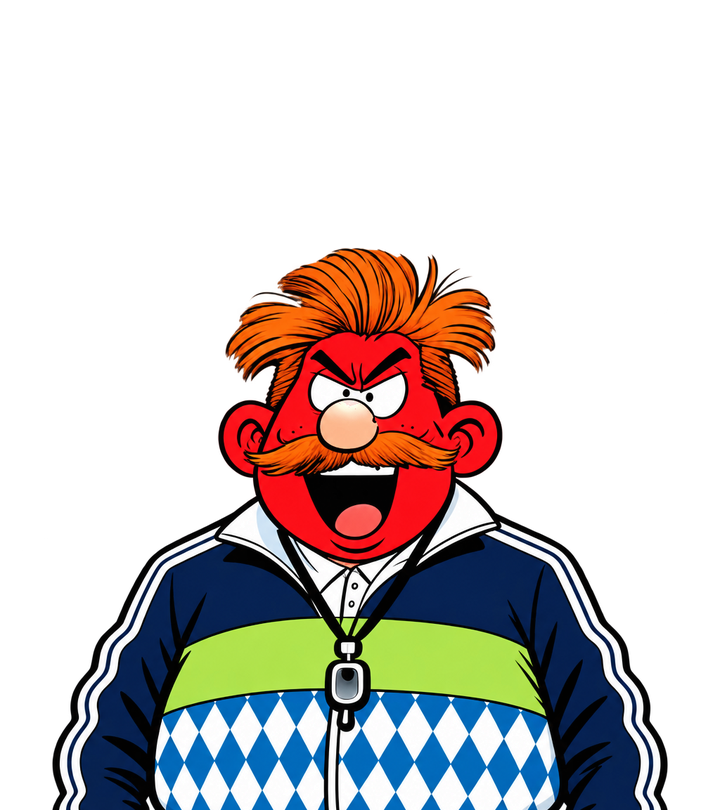
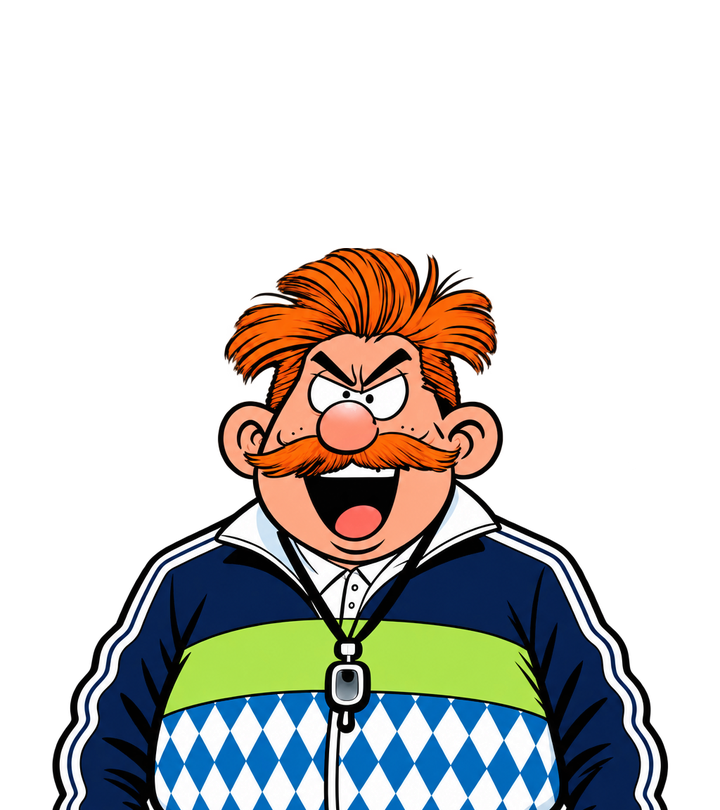
Story: the Head Coach's mad faces with normal skin
Claude-Session: https://claude.ai/code/session_01GrbNTwVienMcpmsk1Pgq12

diff --git a/guides/DESIGNER_MANUAL.md b/guides/DESIGNER_MANUAL.md
@@ -4483,7 +4483,7 @@ and then its `Door Sound` (`door_open`, a wooden door creaking open)
 name off the bottom middle of its picture, e.g. the Club House's, so the
 Trophy Room hut in front of it keeps its own name.
 
-**The village buttons (23 Oct 2026)**: the village picture (assets/base/village.png) now has the drawn Pub right of the brewery. Like the brewery church, it is a button: Buildings.csv `Village Art` = `pub_inn` (assets/base/map/pub_inn.png = only its pixels, pub_inn_hover.png = lit up with a gold edge). The pitch is a button too: the new row `play_field` ("Play a match", Action `play:friendly`, Village Art `village_field`). Clicking the grass does what the Play a match flag did (the Match Maker), and while that row is on the base the flag is not on the top row. The pieces are made by /mnt/project-files/art_tool/base/village_buttons/make_pieces.py. The Dorms is drawn in too (the white block far left, behind the tree, chapel and houses): Village Art `dorms_block`, lit up on hover the same way. The Brewer visitor is off the base for now: his Visitors.csv `Requires` is `flag:brewer_on_base`; put `unlocked:Brewery` back to bring him back. Later the same day the whole picture was redrawn (r172): the new wooden Club House chalet in the middle (Village Art `clubhouse_chalet`), the low houses and little chapel under the Dorms and Club House all together as the Training Ground (`training_houses`), and the wooden Trophy hut with the gold cup in the field corner between the stone wall and the fence (`trophy_hut`). Every building on the base now lights up yellow on hover. The Dorms and Club House name tags are lifted onto their own building with `Name Offset` so the houses in front do not hide them. Pieces: /mnt/project-files/art_tool/base/village_buttons/make_masks_r172.py, then make_pieces_r172.py. The base's name now hangs on the tavern sign like the other screens (data/MenuHeader.csv; Language.csv `the_base`, `tutorial_base`). THE TUTORIAL NOW STARTS ON THE BASE (23 Oct 2026, Anthony): Tuning.csv `tutorial_first_scene` = `tut-base-welcome`, one Dialogue.csv line over the village picture (StoryArt.csv background `village`): the Head Coach says "Ah Coach! You are here, glad you could make it", and its Next `prologue/open` carries on into Pub Dialogue 1 and the tutorial match as before. Put `prologue` back in `tutorial_first_scene` to open in the pub again. THE NEW INTRODUCTION (23 Oct, Anthony): the welcome is now four lines ("Welcome to Sturmball!" ... "let us get a drink at the Pub"), and it ends ON THE BASE itself, in the tutorial's own save: everything is greyed out except the Pub, which glows (Guide.csv row `tut_intro_pub`, Highlight `Pub`, Only `true`; the tutorial save is given the Pub by Tuning.csv `tutorial_start_effects`). Press the Pub and Tuning.csv `tutorial_pub_scene` plays: Dialogue.csv `tut-pub-arrive` ("Ah, nothing beats a nice cold beer!", "Ah Koch! My prodigy"), whose last line's Next `prologue/put_down` carries on into the pub scene as before, then the tutorial match. `tutorial_pub_building` names which Buildings.csv row is the Pub. Blank `tutorial_pub_scene` = no base walk: the welcome goes straight on to the match. A Guide.csv row with Only `true` now works on the base too: every other button is greyed and cannot be pressed (the End tutorial button stays), and a drawn building glows instead of getting a ring. After "Ah Koch! My prodigy" Koch slides in from the right and the Head Coach moves to the left, facing the middle (Anthony, 23 Oct): Dialogue.csv has a new column, `Joins`: who steps on stage as a line shows WITHOUT speaking, written Portrait:Side:Mood (here `koch:right:drunk` on prologue/put_down), several separated by ;. Check: tools/tutorial_check.gd. Later the same day (Anthony): every sign's dark edge is half as thick (MenuHeader.csv `backing` Size 30, pictures remade by art_tool/menu/header_aura.py), and THE DRAWN HEAD COACH is in: the story faces in assets/story/portraits/coach_*.png are now his drawn happy, sad, drunk and mad fronts and his happy side (cut out by art_tool/characters/coach/game/cut_portraits.py). His side faces (happy, sad, drunk, mad) are drawn half-turned, semi front/side like the old pixel ones (r173-r174, Anthony's pick). The pub in the story is empty now (Anthony, 23 Oct): StoryArt.csv no longer stacks the regulars layer (assets/story/backgrounds/bar_regulars.png, still there) on the bar room; add the row `bar,background,,,,res://assets/story/backgrounds/bar_regulars.png` under the bar room to bring them back. The room itself is redrawn in our comic style (assets/story/backgrounds/bar_room_drawn.png, r175), with three beer garden table sets in three different woods in the middle of the floor (r176); the old pixel room is still bar_room.png. His cut-outs have the white between his hair strands and the pale rim round his outline taken out, and each picture is padded at the top to the shape of a person's spot on the story screen, so he stands on its bottom edge just behind the text box instead of floating above it (same script). All eight faces were then redrawn a little zoomed out (r177-r178, Anthony: "Redraw all 7"), so his shoulders, arms and hands are inside the picture and his sides no longer end in a straight cut; each is cut off through the blue-white diamonds, where the text box hides the edge. The faces before that are kept in art_tool/characters/coach/before_r178/. THE DRAWN KOCH is in too (23 Oct, Anthony: "Replace the old koch with the new one please", then "as clean and same size as the head coach"): all eight of his faces (happy, sad, drunk, mad, each front and half-turned side) are redrawn clean like the Head Coach (r179-r180). Both men's faces are now cut and sized by ONE script, art_tool/characters/story_faces.py: each picture is cut 800 px below the top of his head and shrunk to the same width, so both men stand at the same size in every mood. Koch's plain face is his happy one. ONE SET OF COLOURS (23 Oct, Anthony: the colours must not change from scene to scene): the same script shifts every face's skin, hair and clothes to that man's happy front colours, and the person listening in a conversation is no longer greyed out (Tuning.csv `story_listener_dim` 1; 0.55 brings back the grey). His silhouette and Bergmännlein faces (the transformation) are unchanged. Check: tools/village_buttons_shot.gd.
+**The village buttons (23 Oct 2026)**: the village picture (assets/base/village.png) now has the drawn Pub right of the brewery. Like the brewery church, it is a button: Buildings.csv `Village Art` = `pub_inn` (assets/base/map/pub_inn.png = only its pixels, pub_inn_hover.png = lit up with a gold edge). The pitch is a button too: the new row `play_field` ("Play a match", Action `play:friendly`, Village Art `village_field`). Clicking the grass does what the Play a match flag did (the Match Maker), and while that row is on the base the flag is not on the top row. The pieces are made by /mnt/project-files/art_tool/base/village_buttons/make_pieces.py. The Dorms is drawn in too (the white block far left, behind the tree, chapel and houses): Village Art `dorms_block`, lit up on hover the same way. The Brewer visitor is off the base for now: his Visitors.csv `Requires` is `flag:brewer_on_base`; put `unlocked:Brewery` back to bring him back. Later the same day the whole picture was redrawn (r172): the new wooden Club House chalet in the middle (Village Art `clubhouse_chalet`), the low houses and little chapel under the Dorms and Club House all together as the Training Ground (`training_houses`), and the wooden Trophy hut with the gold cup in the field corner between the stone wall and the fence (`trophy_hut`). Every building on the base now lights up yellow on hover. The Dorms and Club House name tags are lifted onto their own building with `Name Offset` so the houses in front do not hide them. Pieces: /mnt/project-files/art_tool/base/village_buttons/make_masks_r172.py, then make_pieces_r172.py. The base's name now hangs on the tavern sign like the other screens (data/MenuHeader.csv; Language.csv `the_base`, `tutorial_base`). THE TUTORIAL NOW STARTS ON THE BASE (23 Oct 2026, Anthony): Tuning.csv `tutorial_first_scene` = `tut-base-welcome`, one Dialogue.csv line over the village picture (StoryArt.csv background `village`): the Head Coach says "Ah Coach! You are here, glad you could make it", and its Next `prologue/open` carries on into Pub Dialogue 1 and the tutorial match as before. Put `prologue` back in `tutorial_first_scene` to open in the pub again. THE NEW INTRODUCTION (23 Oct, Anthony): the welcome is now four lines ("Welcome to Sturmball!" ... "let us get a drink at the Pub"), and it ends ON THE BASE itself, in the tutorial's own save: everything is greyed out except the Pub, which glows (Guide.csv row `tut_intro_pub`, Highlight `Pub`, Only `true`; the tutorial save is given the Pub by Tuning.csv `tutorial_start_effects`). Press the Pub and Tuning.csv `tutorial_pub_scene` plays: Dialogue.csv `tut-pub-arrive` ("Ah, nothing beats a nice cold beer!", "Ah Koch! My prodigy"), whose last line's Next `prologue/put_down` carries on into the pub scene as before, then the tutorial match. `tutorial_pub_building` names which Buildings.csv row is the Pub. Blank `tutorial_pub_scene` = no base walk: the welcome goes straight on to the match. A Guide.csv row with Only `true` now works on the base too: every other button is greyed and cannot be pressed (the End tutorial button stays), and a drawn building glows instead of getting a ring. After "Ah Koch! My prodigy" Koch slides in from the right and the Head Coach moves to the left, facing the middle (Anthony, 23 Oct): Dialogue.csv has a new column, `Joins`: who steps on stage as a line shows WITHOUT speaking, written Portrait:Side:Mood (here `koch:right:drunk` on prologue/put_down), several separated by ;. Check: tools/tutorial_check.gd. Later the same day (Anthony): every sign's dark edge is half as thick (MenuHeader.csv `backing` Size 30, pictures remade by art_tool/menu/header_aura.py), and THE DRAWN HEAD COACH is in: the story faces in assets/story/portraits/coach_*.png are now his drawn happy, sad, drunk and mad fronts and his happy side (cut out by art_tool/characters/coach/game/cut_portraits.py). His side faces (happy, sad, drunk, mad) are drawn half-turned, semi front/side like the old pixel ones (r173-r174, Anthony's pick). The pub in the story is empty now (Anthony, 23 Oct): StoryArt.csv no longer stacks the regulars layer (assets/story/backgrounds/bar_regulars.png, still there) on the bar room; add the row `bar,background,,,,res://assets/story/backgrounds/bar_regulars.png` under the bar room to bring them back. The room itself is redrawn in our comic style (assets/story/backgrounds/bar_room_drawn.png, r175), with three beer garden table sets in three different woods in the middle of the floor (r176); the old pixel room is still bar_room.png. His cut-outs have the white between his hair strands and the pale rim round his outline taken out, and each picture is padded at the top to the shape of a person's spot on the story screen, so he stands on its bottom edge just behind the text box instead of floating above it (same script). All eight faces were then redrawn a little zoomed out (r177-r178, Anthony: "Redraw all 7"), so his shoulders, arms and hands are inside the picture and his sides no longer end in a straight cut; each is cut off through the blue-white diamonds, where the text box hides the edge. The faces before that are kept in art_tool/characters/coach/before_r178/. THE DRAWN KOCH is in too (23 Oct, Anthony: "Replace the old koch with the new one please", then "as clean and same size as the head coach"): all eight of his faces (happy, sad, drunk, mad, each front and half-turned side) are redrawn clean like the Head Coach (r179-r180). Both men's faces are now cut and sized by ONE script, art_tool/characters/story_faces.py: each picture is cut 800 px below the top of his head and shrunk to the same width, so both men stand at the same size in every mood. Koch's plain face is his happy one. ONE SET OF COLOURS (23 Oct, Anthony: the colours must not change from scene to scene): the same script shifts every face's skin, hair and clothes to that man's happy front colours, and the person listening in a conversation is no longer greyed out (Tuning.csv `story_listener_dim` 1; 0.55 brings back the grey). His mad faces now have normal skin instead of a red face (r181, Anthony's pick). His silhouette and Bergmännlein faces (the transformation) are unchanged. Check: tools/village_buttons_shot.gd.
 
 **On Base (Buildings.csv, 23 Oct 2026)**: write `no` and that building is not drawn on the base, but it still exists (its key, window, unlocks and Club House sale all still work). Blank = drawn. The Traveling Tavern is `no` for now (Anthony's ask); empty the cell to bring the wagon back.
 
